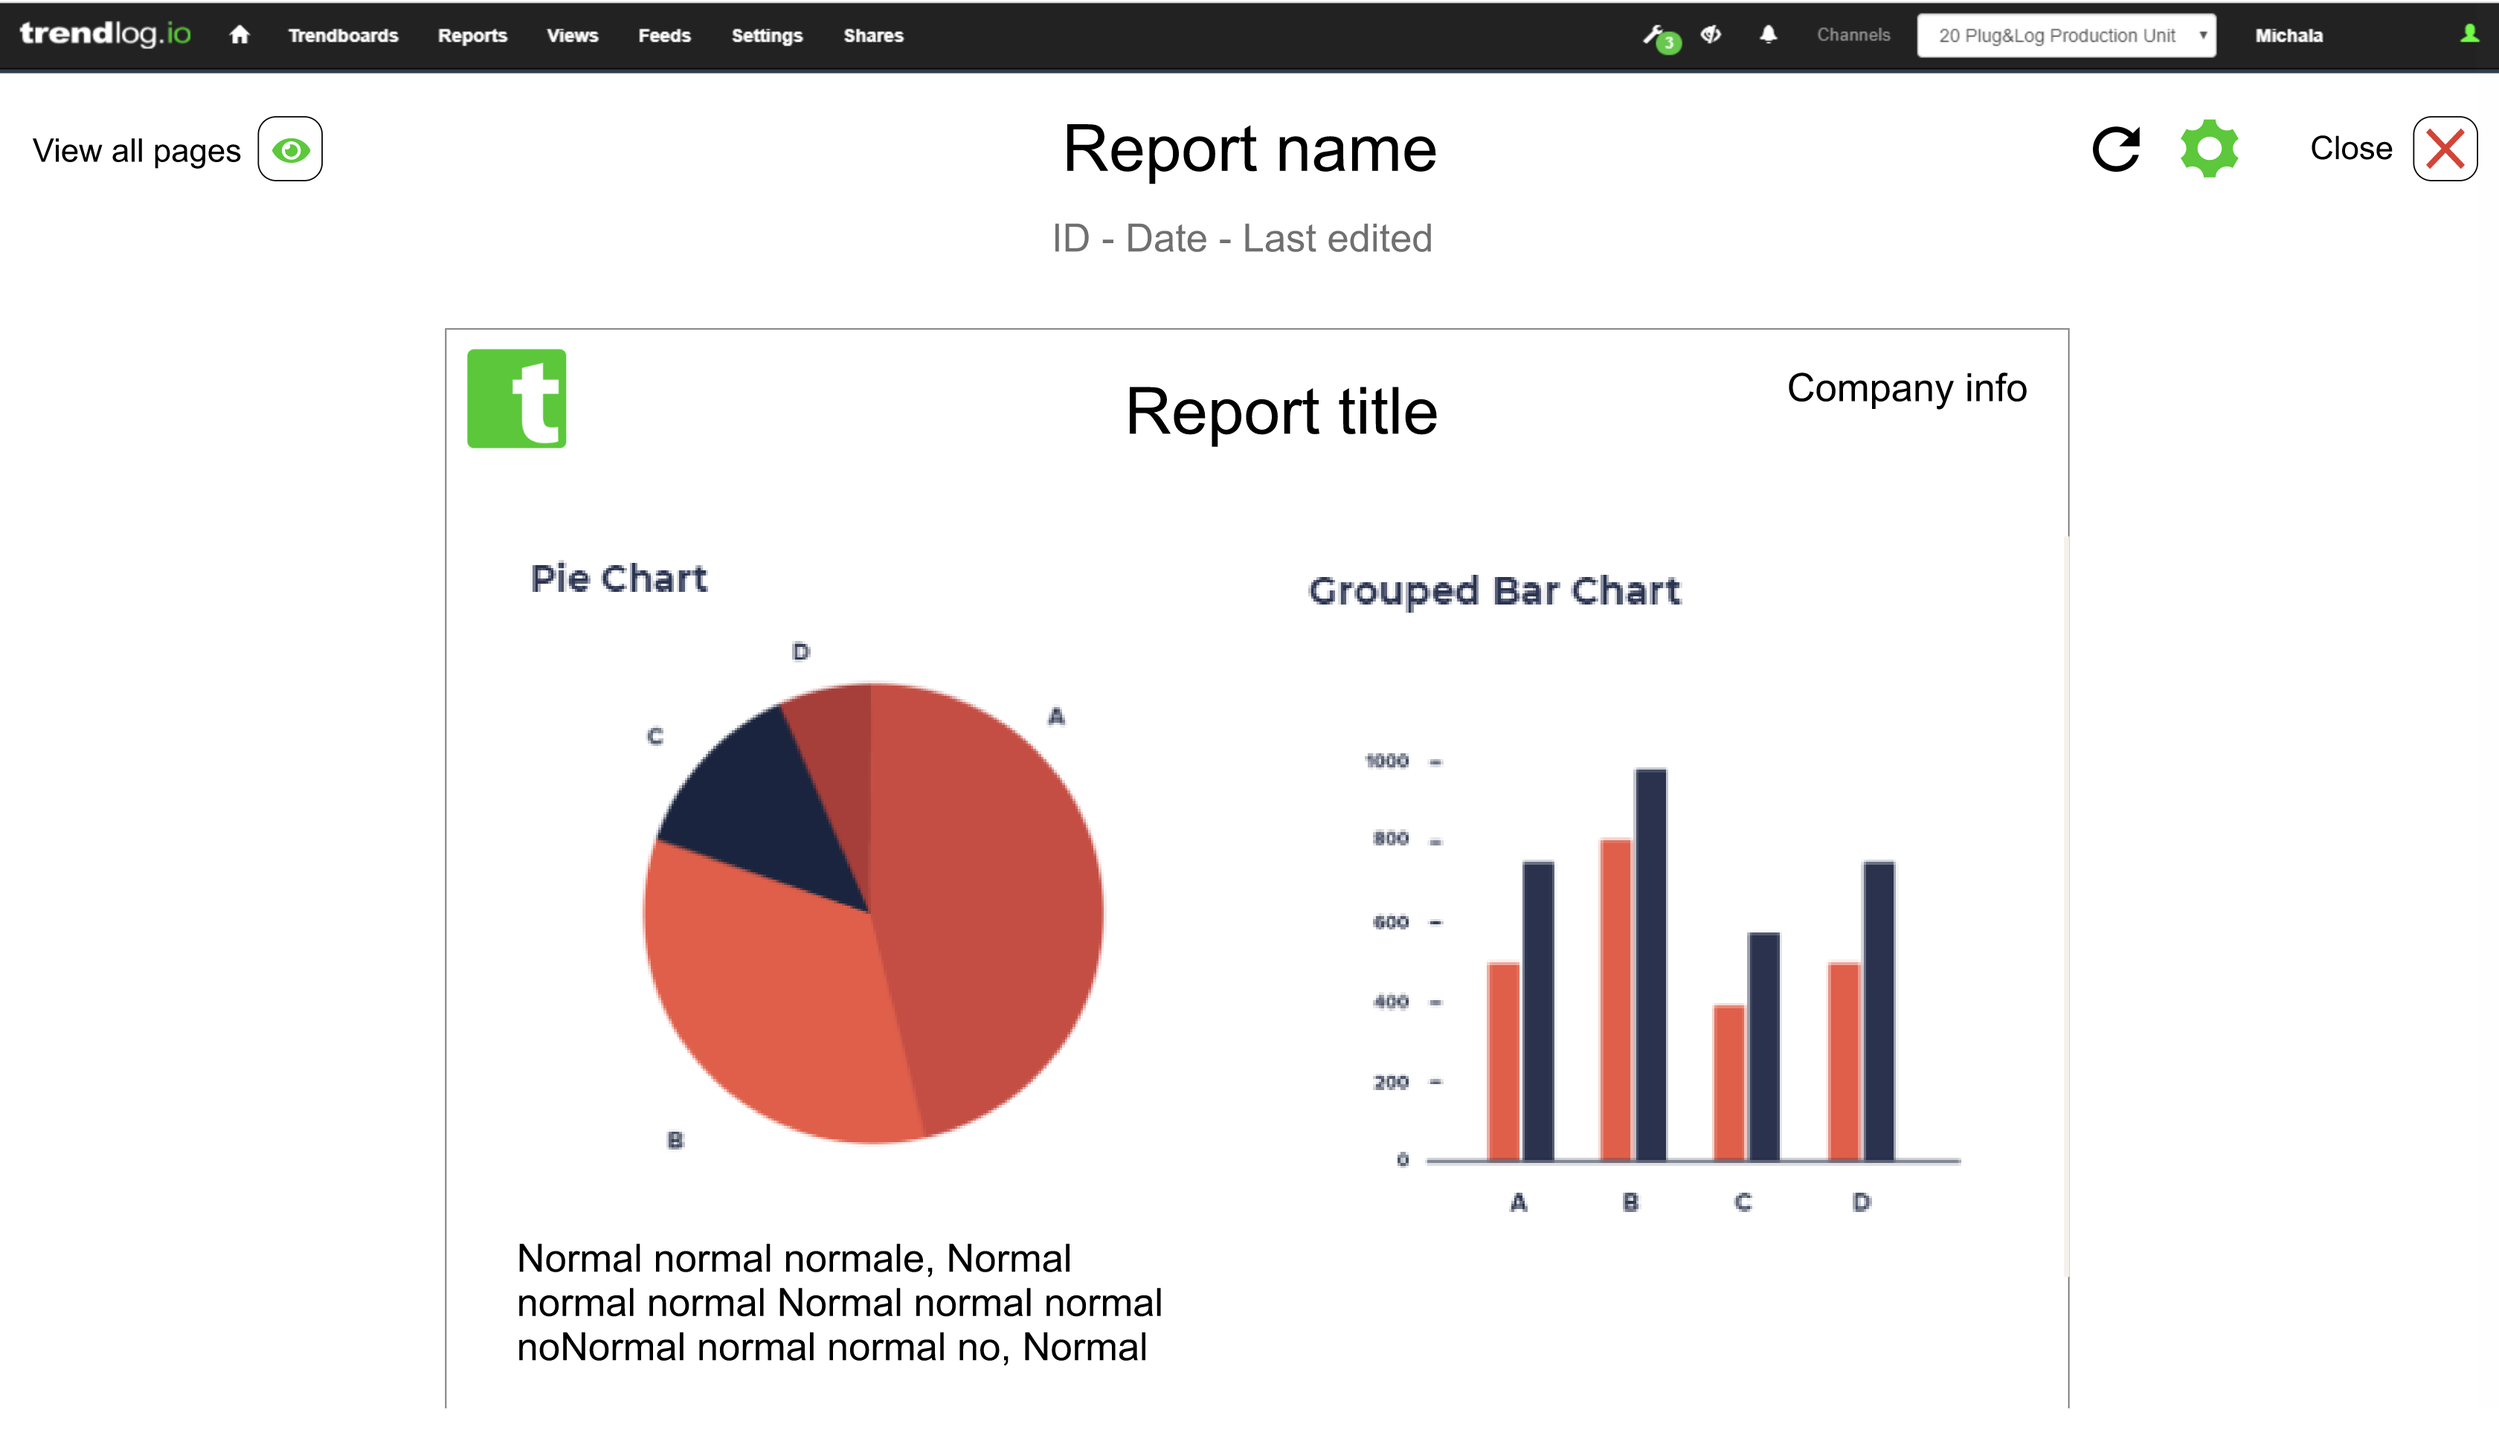
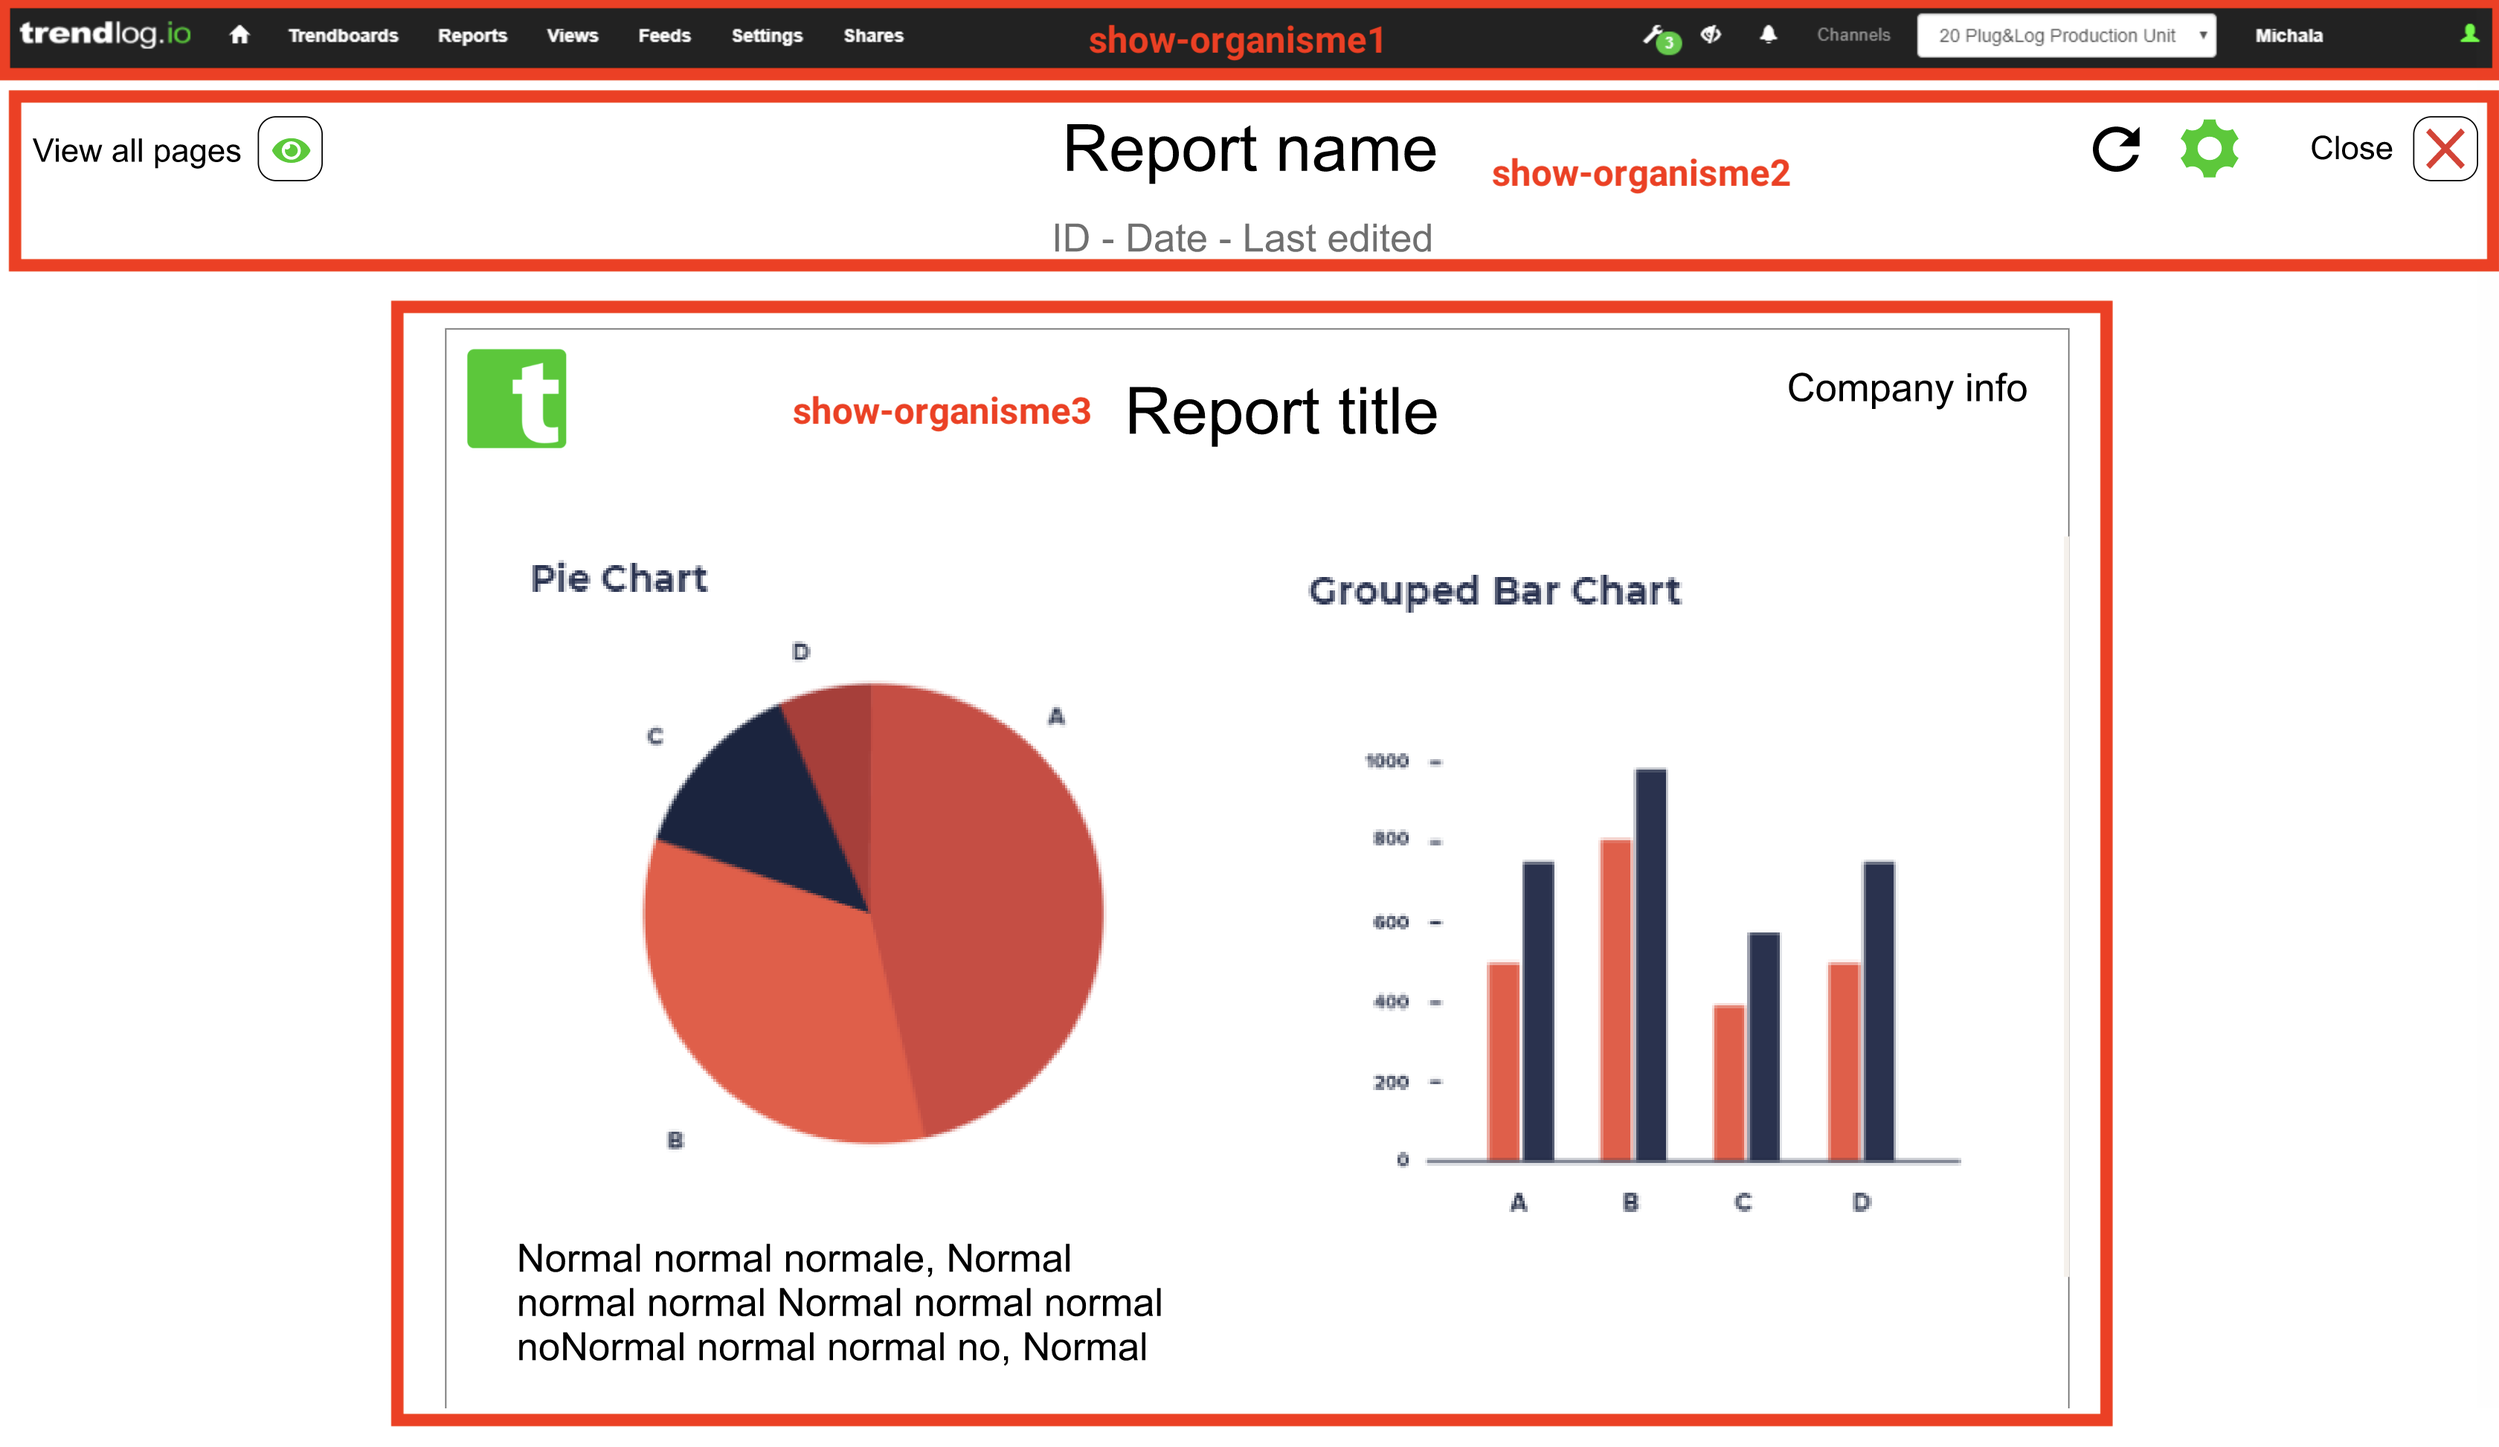
små ændringer

Changed region(s): [[0.0, 0.0, 1.0, 0.9866], [0.3125, 0.2775, 0.4375, 0.3083]]

diff --git a/styleguide.html b/styleguide.html
@@ -440,7 +440,7 @@
           <!-- række 2 i tabel - slut -->
         <!-- organisme tabel for 'overview-organisme3' - slut -->
   </div>
-  <!-- sektion 2 = molekyler og organismer for 'overview-siden' - slut -->
+<!-- sektion 2 = molekyler og organismer for 'overview-siden' - slut -->
 
 <!-- sektion 3 = molekyler og organismer for 'show-siden' -->
   <div class="sektion3">
@@ -449,12 +449,9 @@
         <!-- Liste over molekyler -->
         <ul>
           <li>Tandhjul</li>
-          <li>Opret ny raport / create new report</li>
-          <li>Opret ny mappe / creaete new folder</li>
-          <li>Preview-switch-knap</li>
-          <li>Filter</li>
-          <li>Sort by</li>
-          <li>Søg</li>
+          <li>View all pages</li>
+          <li>Refresh</li>
+          <li>Raport display</li>
         </ul>
         <!-- Liste over molekyler - slut -->
 
@@ -493,8 +490,8 @@
         </ul>
         <!-- Liste over organismer - slut -->
 
-        <!-- organisme tabel for 'indsæt organisme navn'-->
-        <h4>indsæt organisme navn</h4>
+        <!-- organisme tabel for 'show-organisme1'-->
+        <h4>show-organisme1</h4>
           <!-- række 1 i tabel -->
           <table class="showorganimser">
             <tr class="række1">
@@ -515,8 +512,57 @@
           </tr>
           </table>
           <!-- række 2 i tabel - slut -->
-        <!-- organisme tabel for 'indsæt organisme navn' - slut -->
-      <!-- organisme tabeller for 'show'-siden - slut -->
+        <!-- organisme tabel for 'show-organisme1' - slut -->
+
+        <!-- organisme tabel for 'show-organisme2'-->
+        <h4>show-organisme2</h4>
+          <!-- række 1 i tabel -->
+          <table class="showorganimser">
+            <tr class="række1">
+              <th>Molekyle</th>
+              <th>Organsime</th>
+              <th>HTML</th>
+              <th>CSS</th>
+              <th>JavaScript</th>
+            </tr>
+          <tr>
+          <!-- række 2 i tabel -->
+          <tr class="række2">
+            <td><ul><li>molekyle</li><li>molekyle</li><li>molekyle</li><li>molekyle</li></ul></td>
+            <td>indsæt organisme</td>
+            <td> indsæt html kode - "læsbar/ikke aktiv kode" </td>
+            <td> indsæt css kode - "læsbar/ikke aktiv kode" </td>
+            <td> indsæt JavaScript kode - "læsbar/ikke aktiv kode" </td>
+          </tr>
+          </table>
+          <!-- række 2 i tabel - slut -->
+        <!-- organisme tabel for 'show-organisme2' - slut -->
+
+        <!-- organisme tabel for 'show-organisme3'-->
+        <h4>show-organisme3</h4>
+          <!-- række 1 i tabel -->
+          <table class="showorganismer">
+            <tr class="række1">
+              <th>Molekyle</th>
+              <th>Organsime</th>
+              <th>HTML</th>
+              <th>CSS</th>
+              <th>JavaScript</th>
+            </tr>
+          <tr>
+          <!-- række 2 i tabel -->
+          <tr class="række2">
+            <td><ul><li>molekyle</li><li>molekyle</li><li>molekyle</li><li>molekyle</li></ul></td>
+            <td>indsæt organisme</td>
+            <td> indsæt html kode - "læsbar/ikke aktiv kode" </td>
+            <td> indsæt css kode - "læsbar/ikke aktiv kode" </td>
+            <td> indsæt JavaScript kode - "læsbar/ikke aktiv kode" </td>
+          </tr>
+          </table>
+          <!-- række 2 i tabel - slut -->
+        <!-- organisme tabel for 'show-organisme3' - slut -->
+
+        <!-- organisme tabeller for 'show'-siden - slut -->
 </div>
 <!-- sektion 3 = molekyler og organismer for 'show-siden' - slut -->
 
@@ -579,7 +625,7 @@
           <!-- organisme tabel for 'editor-organisme1'-->
           <h4>editor-organisme1</h4>
             <!-- række 1 i tabel -->
-            <table class="showorganimser">
+            <table class="showorganismer">
               <tr class="række1">
                 <th>Molekyler/th>
                 <th>Organsime</th>
@@ -686,7 +732,7 @@
         <ul>
           <li>Tandhjul</li>
           <li>Opret ny mappe / create new folder</li>
-          <li>Go back to overview/li>
+          <li>Go back to overview</li>
           <li>Preview-switch-knap</li>
           <li>Filter</li>
           <li>Sort by</li>
@@ -733,7 +779,7 @@
           <!-- organisme tabel for 'folderoverview-organisme1'-->
           <h4>folderoverview-organisme1</h4>
             <!-- række 1 i tabel -->
-            <table class="showorganimser">
+            <table class="showorganismer">
               <tr class="række1">
                 <th>Molekyler</th>
                 <th>Organsime</th>
